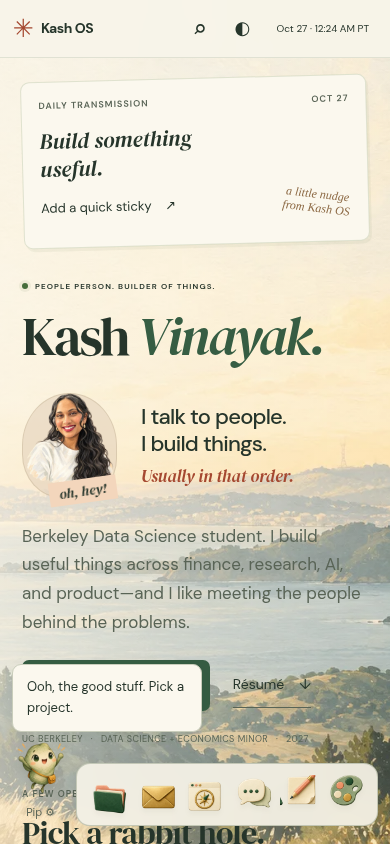
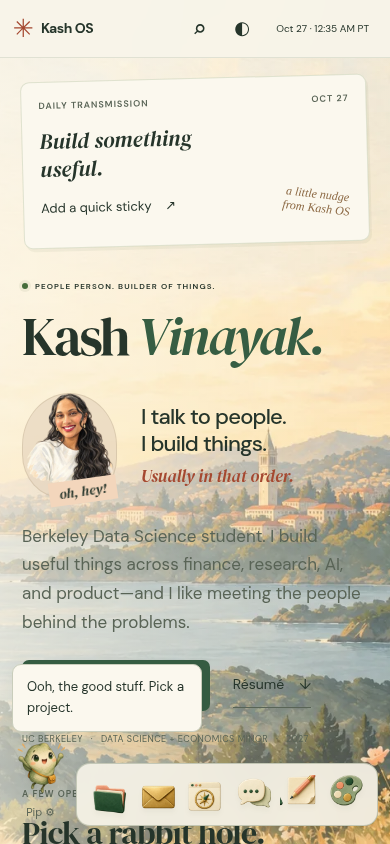
Add Berkeley Campanile to Kash OS wallpaper

diff --git a/style.css b/style.css
@@ -19,3 +19,5 @@
 @media(max-height:850px) and (min-width:1101px){.desktop{padding-top:74px;padding-bottom:100px}.quick-fact-card{display:none}.daily-widget{padding:10px 16px 8px}.daily-widget>p{font-size:19px;margin-top:6px}.daily-widget>button{margin-top:3px}.identity{margin-top:21px}.identity h1{font-size:62px}.identity-main{margin-top:13px}.intro-copy{margin-top:17px}.identity-actions{margin-top:16px}.desktop-right{padding-top:10px}.apps-heading{margin-bottom:15px}.app-button{min-height:118px;padding:4px 6px 8px}.app-icon{width:49px;height:49px}.app-grid{gap:8px}.all-apps{margin-top:11px}.desktop-proof{margin-top:9px;padding:10px 15px}}
 .casefile-row{display:flex;align-items:stretch}.file-list .casefile-preview{width:auto;flex:1;min-width:0}.file-list .casefile-open{width:48px;flex-shrink:0;justify-content:center}.casefile-preview .file-name{overflow-wrap:anywhere}.window-body #case-preview{margin-top:22px}@media(max-height:850px) and (min-width:1101px){.desktop{padding-bottom:85px}}
 .sticky{width:210px}.sticky-controls button{min-width:36px;min-height:32px}.sticky textarea{max-height:180px}@media(max-width:540px){.sticky{width:210px}.sticky-controls button{min-width:44px;min-height:44px}.sticky-controls{gap:2px}}
+/* Keep the Berkeley landmark in the phone crop. */
+@media(max-width:540px){.wallpaper{background-position:65% center}}

diff --git a/ASSET_MANIFEST.md b/ASSET_MANIFEST.md
@@ -4,7 +4,7 @@ All original illustrations were generated with the native image-generation tool 
 
 | Public asset | Dimensions | Purpose / generation brief | Source master |
 |---|---|---|---|
-| illustrations/wallpaper.webp | 1536 × 1024 | Original editorial gouache Bay Area landscape, sage hills, warm ivory sky, peach flowers; no people/text/logos | exec-6769c10f-e648-4caf-83c5-459f9c713c57.png |
+| illustrations/wallpaper.webp | 1536 × 1024 | Original editorial gouache Bay Area landscape, Berkeley campus and Campanile, sage hills, warm ivory sky, peach flowers; no people/text/logos | exec-eec2f3f3-cd1d-42bf-9753-488a0325a695.png |
 | illustrations/kash-portrait.webp | ≤512 × 512 | Illustrated Kash portrait based solely on owner-supplied photo: smile, dark wavy hair, white top, earrings; transparent, no invented setting | exec-2a16a9fd-bdb6-4f6c-a8d1-00cc3e239ab6.png |
 | illustrations/pip-states.webp | 640 × 640 | Original 2×2 companion sheet: curious/idle, happy/wave, sad, excited; green seed-shaped traveler with small gold satchel | exec-c247ffda-45a7-49f2-bcf5-d584add5fb31.png |
 | icons/apps.webp | 1024 × 1024 | Original 4×4 icon family: folders, document, map, notebook, mail, microscope, browser, tools, conversation, cases, award, calendar, voice, sticky, leaf game, palette | exec-ac0cf2d3-0bda-4023-acc0-0456a1779b04.png |
@@ -28,3 +28,5 @@ DM Sans and DM Serif Display: self-hosted Latin webfonts obtained from the @font
 ## Documents and privacy
 
 The supplied October 24 résumé has a web copy with only its phone number redacted, saved to public/assets/documents/Kash-Vinayak-Resume.pdf. It retains the approved email and all qualifications. The source upload is unchanged. Transcript, student IDs, other private source files, and source portrait metadata are not published. No employer logos or actual internal screenshots are used.
+
+Wallpaper revision: owner requested a visible Berkeley campus/Campanile. The native image tool edited the prior approved-direction artwork, preserving its warm palette and landscape composition. This is a stylized Bay Area panorama, not a cartographically exact viewpoint. Phone crop shifts to 65% to retain the landmark. Original prior master remains in cloud generated-image history.

diff --git a/TEST_REPORT.md b/TEST_REPORT.md
@@ -43,3 +43,7 @@ A generic ARIA label on the window layer was given a proper region role; a small
 - File-protocol opening is not supported for the ES-module build; use the HTTP server.
 - Automated axe checks and keyboard workflows do not replace a comprehensive screen-reader/manual accessibility audit. CSS viewport reflow approximates browser 200% zoom.
 - No unavailable demos, booking service, backend form delivery, or analytics were simulated.
+
+## Berkeley wallpaper revision
+
+Owner requested the Campanile/campus in the existing warm Bay Area panorama. Revised wallpaper generated natively, optimized, and inspected in Day/Night/Dark desktop and phone screenshots. The phone crop retains Berkeley. `npm run build`, `npm run check`, and the clean desktop/mobile review screenshot script pass after the asset-only revision. Existing app behavior is unchanged; the full interaction suite was not redundantly rerun for this wallpaper change.
